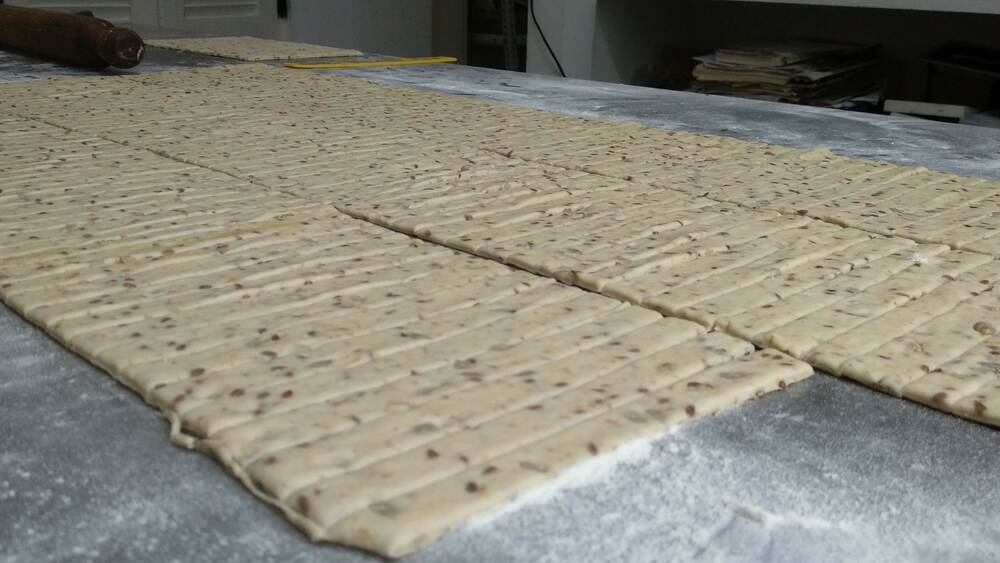
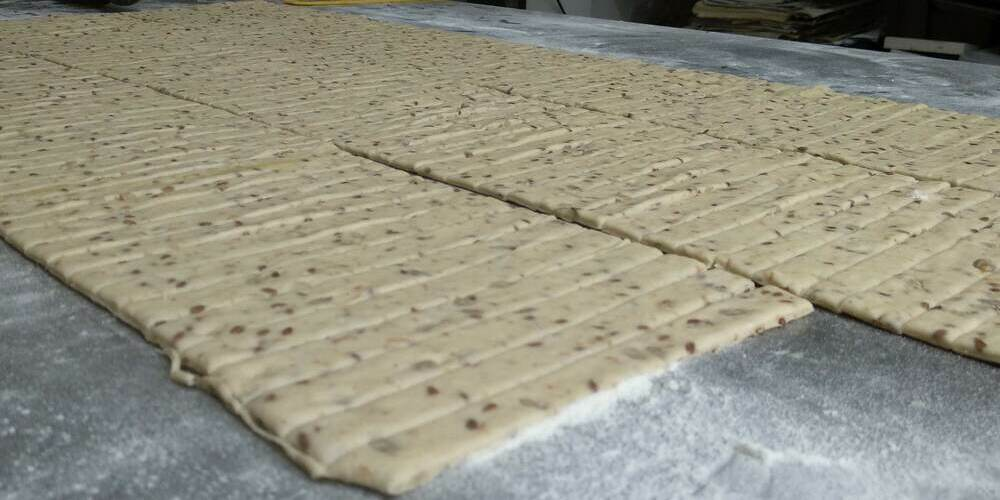
refactors y mejorando imagenes

diff --git a/public/index.html b/public/index.html
@@ -73,7 +73,7 @@
                             <img src="images/banner/banner_fosforito-min.jpg" class="d-block w-100" alt="fosforito de hojaldre" />
                         </div>
                         <div class="carousel-item">
-                            <img src="images/banner/banner_panes.webp" class="d-block w-100" alt="pan de semillas en el horno" />
+                            <img src="images/banner/banner_panes-min.jpg" class="d-block w-100" alt="pan de semillas en el horno" />
                         </div>
                     </div>
                     <a class="carousel-control-prev" href="#carouselBasicExample" role="button" data-mdb-slide="prev">
@@ -90,28 +90,31 @@
                 <h2>Productos Destacados</h2>
                 <div class="seccion-productos">
                     <article>
-                        <img src="https://images.vexels.com/media/users/3/203687/isolated/preview/67d52da75f7dbba67dfc8ef4390351e3-icono-de-pan-integral-de-pan-by-vexels.png" alt="producto 1" loading="lazy">
-                        <label>Producto 1 <span class="badge bg-primary">Nuevo</span></label>
+                        <img src="../images/productos/pan-semilla.png" alt="pan de semillas" loading="lazy">
+                        <label>Pan de Semillas</label>
                     </article>
                     <article>
-                        <img src="https://images.vexels.com/media/users/3/203687/isolated/preview/67d52da75f7dbba67dfc8ef4390351e3-icono-de-pan-integral-de-pan-by-vexels.png" alt="producto 2" loading="lazy">
-                        <label>Producto 2</label>
+                        <img src="../images/productos/sacramento-pastelera.png" alt="sacramento con crema pastelera" loading="lazy">
+                        <label>Sacramento con Crema Pastelera</label>
                     </article>
                     <article>
-                        <img src="https://images.vexels.com/media/users/3/203687/isolated/preview/67d52da75f7dbba67dfc8ef4390351e3-icono-de-pan-integral-de-pan-by-vexels.png" alt="producto 3" loading="lazy">
-                        <label>Producto 3</label>
+                        <img src="../images/productos/medialuna-jamon-queso.png" alt="medialuna de jamon y queso" loading="lazy">
+                        <label>Medialuna de Jamon y Queso</label>
                     </article>
                     <article>
-                        <img src="https://images.vexels.com/media/users/3/203687/isolated/preview/67d52da75f7dbba67dfc8ef4390351e3-icono-de-pan-integral-de-pan-by-vexels.png" alt="producto 4" loading="lazy">
-                        <label>Producto 4</label>
+                        <img src="../images/productos/tarta_frutilla-min.jpg" alt="Tarta de Frutilla" loading="lazy">
+                        <label>Tarta de Frutilla</label>
                     </article>
                 </div>
-                <a href="pages/productos.html">Ver Mas</a>
+                <a href="pages/productos.html"><label>Ver Mas</label></a>
             </section>
             <section id="seccion-servicios" class="seccion seccion-centrada">
                 <h2>Servicios</h2>
-                <img src="https://diariourbano.com.ar/wp-content/uploads/2017/11/lunch-servicios.jpg" alt="servicios" loading="lazy">
-                <a href="pages/servicios.html">Info</a>
+                <div class="seccion seccion-centrada seccion-info">
+                    <img src="../images/fotos/servicios.jpg" alt="servicio de lunch" loading="lazy">
+                    <p>Ofrecemos servicios para pequeños eventos familiares y empresariales. Con gran variedad de productos salados y dulces.</p>
+                </div>
+                <a href="pages/servicios.html"><label>+ Info</label></a>
             </section>
             <section id="seccion-punto-venta" class="seccion seccion-centrada">
                 <h2>Punto de Venta</h2>

diff --git a/public/css/estilo.css b/public/css/estilo.css
@@ -35,7 +35,7 @@ h3 {
     z-index: 1; }
     .seccion-productos article img {
       width: 90%;
-      height: 90%;
+      height: 80%;
       object-fit: cover;
       border-radius: 5px; }
   .seccion-productos article:hover {
@@ -151,8 +151,8 @@ header {
         display: block;
         padding: 0.5rem;
         width: 150px; }
-        .navegacion ul ul li a:hover {
-          color: #3d1a00; }
+    .navegacion ul a:hover {
+      color: #3d1a00; }
   .navegacion .button-nav {
     display: none; }
 
@@ -170,11 +170,14 @@ header {
         border-radius: 5px;
         box-shadow: 1px 1px 5px black; }
       .navegacion ul ul {
-        width: 90%;
+        width: calc(100% - 1rem);
         justify-content: center; }
-      .navegacion ul a.icon {
-        float: right;
-        display: block; }
+        .navegacion ul ul li {
+          width: 90%;
+          padding: 0.5rem;
+          margin: 0.5rem 0;
+          border-bottom: 1px solid rgba(117, 66, 0, 0.5);
+          box-shadow: none; }
     .navegacion .button-nav {
       display: block;
       position: absolute;
@@ -185,11 +188,10 @@ header {
       border: none;
       background-color: #00000040;
       padding: 0.5rem;
-      margin: 0; }
+      height: calc(50px - 0.5rem);
+      width: calc(50px - 0.5rem); }
       .navegacion .button-nav .icon {
-        width: 100px;
-        object-fit: contain;
-        max-height: 50px; }
+        object-fit: contain; }
   .navegacion.navegacion-abierta > ul {
     display: flex; } }
 
@@ -218,6 +220,12 @@ section.seccion-centrada {
     padding: 0 3rem;
     color: #61300d; }
 
+@media (max-width: 992px) {
+  .seccion-info {
+    flex-direction: column; }
+  .seccion-info-revez {
+    flex-direction: column-reverse; } }
+
 #formularioContacto {
   border-radius: 5px;
   padding: 1rem;
@@ -243,32 +251,32 @@ section.seccion-centrada {
   grid-template-columns: auto minmax(100%, 1000px) auto;
   grid-template-rows: auto repeat(4, auto);
   grid-template-areas: "banner banner banner" ". productos ." ". servicios ." ". punto-venta ."; }
-
-#banner-principal {
-  grid-area: banner; }
-
-#seccion-productos {
-  grid-area: productos; }
-
-#seccion-servicios {
-  grid-area: servicios; }
-
-#seccion-servicios img {
-  width: 100%; }
-
-#seccion-punto-venta {
-  grid-area: punto-venta; }
-
-#seccion-punto-venta img {
-  width: 100%; }
-
-#banner-principal {
-  padding: 0 !important; }
-
-#banner-principal img {
-  object-fit: cover;
-  height: 100%;
-  max-height: 80vh; }
+  #home-grid #seccion-productos {
+    grid-area: productos; }
+  #home-grid #seccion-servicios {
+    grid-area: servicios; }
+  #home-grid #seccion-servicios img {
+    width: 100%; }
+  #home-grid #seccion-punto-venta {
+    grid-area: punto-venta; }
+  #home-grid #seccion-punto-venta img {
+    width: 100%; }
+  #home-grid #banner-principal {
+    grid-area: banner;
+    padding: 0 !important; }
+    #home-grid #banner-principal img {
+      object-fit: cover;
+      height: 100%;
+      max-height: 80vh; }
+  #home-grid section a {
+    text-decoration: none; }
+    #home-grid section a label {
+      color: #a55b00;
+      font-weight: bold;
+      margin: 1rem 0;
+      font-size: 1.25em; }
+  #home-grid section a:hover label {
+    color: #c96e00; }
 
 @keyframes disfuminado {
   from {

diff --git a/scss/layout/_navigation.scss b/scss/layout/_navigation.scss
@@ -18,9 +18,7 @@
             vertical-align: middle;
             position: relative;
         }
-        li:hover ul {
-            display: flex;
-        }
+        li:hover ul { display: flex }
  
         ul {
             z-index: 1;
@@ -35,10 +33,10 @@
                 display: block;
                 padding: 0.5rem;
                 width: 150px;
-            
-                a:hover { color: rgb(61, 26, 0) }
             }
         }
+
+        a:hover { color: rgb(61, 26, 0) }
     }
 
     .button-nav { display: none }
@@ -63,13 +61,16 @@
             }
     
             ul {
-                width: 90%;
+                width: calc(100% - 1rem);
                 justify-content: center;
-            }
-    
-            a.icon {
-                float: right;
-                display: block;
+
+                li {
+                    width: 90%;
+                    padding: 0.5rem;
+                    margin: 0.5rem 0;
+                    border-bottom: 1px solid rgba(117, 66, 0, 0.5);
+                    box-shadow: none;
+                }
             }
         }
 
@@ -83,12 +84,11 @@
             border: none;
             background-color: #00000040;
             padding: 0.5rem;
-            margin: 0;
+            height: calc(50px - 0.5rem);
+            width: calc(50px - 0.5rem);
 
             .icon {
-                width: 100px;
                 object-fit: contain;
-                max-height: 50px;
             }
         }
     }

diff --git a/public/pages/quienes-somos.html b/public/pages/quienes-somos.html
@@ -54,15 +54,15 @@
                 <h2>Quienes Somos</h2>
             </section>
             <section class="seccion seccion-centrada seccion-info">
-                <img src="https://ideas.pwc.es/wp-content/uploads/2018/08/pwc-ideas-sucesion-empresa-familiar-pan-1280x720.jpg" alt="servicio de lunch" loading="lazy">
-                <p>Somos una empresa familiar con varios años de experiencia ofreciendo a los pehuajenses la mejor artesanía panadera y pastelera.</p>
+                <img src="../images/fotos/presentar-pan.jpg" alt="servicio de lunch" loading="lazy">
+                <p>Somos una empresa familiar con varios años de experiencia, en el mercado de la panaderia y pasteleria.</p>
             </section>
-            <section class="seccion seccion-centrada seccion-info">
+            <section class="seccion seccion-centrada seccion-info seccion-info-revez">
                 <p>
                     Uno de nuestros objetivos es que nuestros productos se puedan elaborar
                     de manera congelada para llegar a nuevos horizontes.
                 </p>
-                <img src="https://http2.mlstatic.com/D_690810-MLA29611354356_032019-O.jpg" alt="servicio de lunch" loading="lazy">
+                <img src="../images/fotos/medialuna-congelada.jpg" alt="servicio de lunch" loading="lazy">
             </section>
         </main>
         <footer>

diff --git a/scss/views/_inicio.scss b/scss/views/_inicio.scss
@@ -8,19 +8,35 @@
         ". productos ."
         ". servicios ."
         ". punto-venta .";
-}
-#banner-principal { grid-area: banner; }
-#seccion-productos { grid-area: productos; }
-#seccion-servicios { grid-area: servicios; }
-#seccion-servicios img { width: 100%; }
-#seccion-punto-venta { grid-area: punto-venta; }
-#seccion-punto-venta img { width: 100%; }
 
-#banner-principal { padding: 0 !important; }
-#banner-principal img {
-    object-fit: cover;
-    height: 100%;
-    max-height: 80vh;
+
+    #seccion-productos { grid-area: productos; }
+    #seccion-servicios { grid-area: servicios; }
+    #seccion-servicios img { width: 100%; }
+    #seccion-punto-venta { grid-area: punto-venta; }
+    #seccion-punto-venta img { width: 100%; }
+    #banner-principal {
+        grid-area: banner;
+        padding: 0 !important;
+    
+        img {
+            object-fit: cover;
+            height: 100%;
+            max-height: 80vh;
+        }
+    }
+
+    section a {
+        text-decoration: none;
+        
+        label {
+            color: rgb(165, 91, 0);
+            font-weight: bold;
+            margin: 1rem 0;
+            font-size: 1.25em;
+        }
+    }
+    section a:hover label { color: rgb(201, 110, 0) }
 }
 
 @keyframes disfuminado {

diff --git a/public/pages/servicios.html b/public/pages/servicios.html
@@ -54,7 +54,7 @@
                 <h2>Servicios</h2>
             </section>
             <section class="seccion seccion-centrada seccion-info">
-                <img src="https://www.lomasurbano.com.ar/og/servicio-de-lunch.jpg" alt="servicio de lunch" loading="lazy">
+                <img src="../images/fotos/servicios.jpg" alt="servicio de lunch" loading="lazy">
                 <p>Ofrecemos servicios para pequeños eventos familiares y empresariales. Con gran variedad de productos salados y dulces.<br><a href="contacto.html">Contactar</a></p>
             </section>
         </main>

diff --git a/scss/layout/_section.scss b/scss/layout/_section.scss
@@ -26,3 +26,8 @@ section.seccion-centrada {
         color: rgb(97, 48, 13);
     }
 }
+
+@media (max-width: $max-pantalla-mediana) {
+    .seccion-info { flex-direction: column; }
+    .seccion-info-revez { flex-direction: column-reverse; }
+}

diff --git a/scss/components/_listado.scss b/scss/components/_listado.scss
@@ -20,7 +20,7 @@
     
         img {
             width: 90%;
-            height: 90%;
+            height: 80%;
             object-fit: cover;
             border-radius: 5px;
         }
